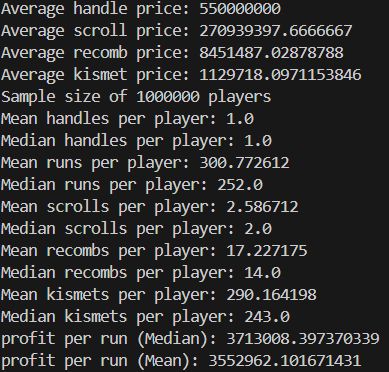
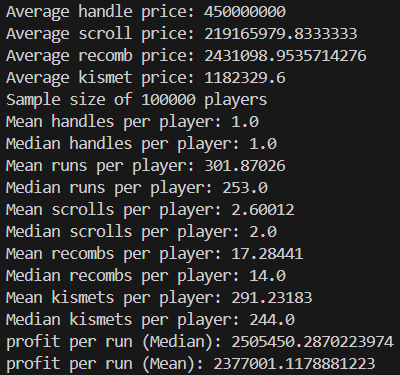
fixed #1

Changed region(s): [[0.0, 0.0, 0.9871, 1.0]]

diff --git a/F7_Profit.py b/F7_Profit.py
@@ -55,12 +55,14 @@ def main(silent=False):
     if bz['success'] != True:
         return
     
-
+    CHEST_COSTS = {'scroll': 50000000,
+                   'handle': 100000000,
+                   'recomb': 6000000}
     SCROLL_PRICES = numpy.mean([bz['products']['IMPLOSION_SCROLL']['quick_status'][SELL_TYPE],
                                 bz['products']['SHADOW_WARP_SCROLL']['quick_status'][SELL_TYPE],
-                                bz['products']['IMPLOSION_SCROLL']['quick_status'][SELL_TYPE]])
-    HANDLE_PRICES = 550000000
-    RECOMB_PRICES = bz['products']['RECOMBOBULATOR_3000']['quick_status'][SELL_TYPE]
+                                bz['products']['IMPLOSION_SCROLL']['quick_status'][SELL_TYPE]]) - CHEST_COSTS['scroll']
+    HANDLE_PRICES = 550000000  - CHEST_COSTS['handle']
+    RECOMB_PRICES = bz['products']['RECOMBOBULATOR_3000']['quick_status'][SELL_TYPE] - CHEST_COSTS['recomb']
     KISMET_PRICES = bz['products']['KISMET_FEATHER']['quick_status'][BUY_TYPE]
 
     player = 0
@@ -110,9 +112,9 @@ def main(silent=False):
     median_profit = (HANDLE_PRICES*handles + SCROLL_PRICES*scroll + RECOMB_PRICES*recomb - KISMET_PRICES*kismets)/run
     mean_profit = (HANDLE_PRICES*mean_handles + SCROLL_PRICES*mean_scroll + RECOMB_PRICES*mean_recomb - KISMET_PRICES*mean_kismets)/mean_run
     if not silent:
-        print(f"Average handle price: {HANDLE_PRICES}")
-        print(f"Average scroll price: {SCROLL_PRICES}")
-        print(f"Average recomb price: {RECOMB_PRICES}")
+        print(f"Average handle profit: {HANDLE_PRICES}")
+        print(f"Average scroll profit: {SCROLL_PRICES}")
+        print(f"Average recomb profit: {RECOMB_PRICES}")
         print(f"Average kismet price: {KISMET_PRICES}")
         print(f'Sample size of {target_players} players')
         print(f"Mean handles per player: {mean_handles}")
@@ -129,7 +131,7 @@ def main(silent=False):
         print(f"profit per run (Mean): {mean_profit}")
     return (median_profit,median_profit)
 
-menu = False
+menu = True
 if menu:
     SELL_TYPE = 'sellPrice' if input("Enter sell method for items\n1: Sell instantly\nany other key: Sell offer\n> ") == '1' else 'buyPrice'
     USE_KISMETS = True if input("Do you want to use kismets when possible\n1: Use kismets\nany other key: No kismets\n> ") == '1' else False
@@ -144,8 +146,8 @@ else:
     SELL_TYPE = 'buyPrice'
     USE_KISMETS = True
     BUY_TYPE = 'sellPrice'
-    target_players = 100000
-    option = '4'
-    stop = 400
+    target_players = 1000000
+    option = '3'
+    stop = 270
 
 main()

diff --git a/README.md b/README.md
@@ -3,56 +3,41 @@ maybe this is a waste of time
 
 # F7 Profit calculator
 
-Setting rng meter to handle from start, without kismets
+**STRAT 1:** Setting rng meter to handle from start, without kismets
 
 
-![3.7m per run](resources/F7_profit/option1.png)
+![2.4m per run](resources/F7_profit/option1.png)
 
 
-VS:
-Setting rng meter to handle from start, with kismets
+**STRAT 1:** Setting rng meter to handle from start, with kismets
 
 
-![2.7m per run](resources/F7_profit/option1_nokismet.png)
-
-So kismets is worth on f7 even after handle prices tanked
+![2.0m per run](resources/F7_profit/option1_nokismet.png)
 
 
-Only turning rng meter on when drop first handle without rng meter (with kismets)
+> So kismets is worth on f7 even after handle prices tanked
+
+**STRAT 2:** Only turning rng meter on when drop first handle without rng meter (with kismets)
 
 
-![3.6m per run](resources/F7_profit/option2.png)
+![2.3m per run](resources/F7_profit/option2.png)
 
 
-Slightly worse than just setting rng on handle from start
-
-Setting rng meter on only when it is 80% filled
+**STRAT 3:** setting rng meter on until x runs without handle, then off til drop handle, then on for second handle (with kismets, x is 250 in this example)
 
 
-![3.6m per run](resources/F7_profit/option4_730.png)
+![2.4m per run](resources/F7_profit/option3_270.png)
 
 
-Setting rng meter on only when 100% filled
+**STRAT 4:** Setting rng meter on only after x runs, with kismets (x is 400 in this example)
 
 
-![3.6m per run](resources/F7_profit/option4_914.png)
+![2.3m per run](resources/F7_profit/option4_400.png)
 
 
-
-> In conclusion, all these goofy strats are goofy. just set rng meter on from the start, with kismets.
-
-weird strat: setting rng meter on til 80% filled, then off til drop handle, then on for second handle 
-
-
-![3.7m per run](resources/F7_profit/option3_730.png)
-
-
-Very close to just setting rng meter on from the start. But with kismets, by the time its 80% filled, we probably dropped the handle already, so ill try with switching it off after 270 runs
-
-
-![4.8m per run](resources/F7_profit/option3_270.png)
+> In conclusion, all these goofy strats look like they make about the same amount. So just stick to rng meter all the way, and **USE KISMETS**
 
 
 
-somehow its more money than just leaving it on handle from the start???? idk man u can try this strat but maybe my code is wrong somehow im gonna explode
-both has the same profit per run if use mean values tho, idk what that means
+
+
